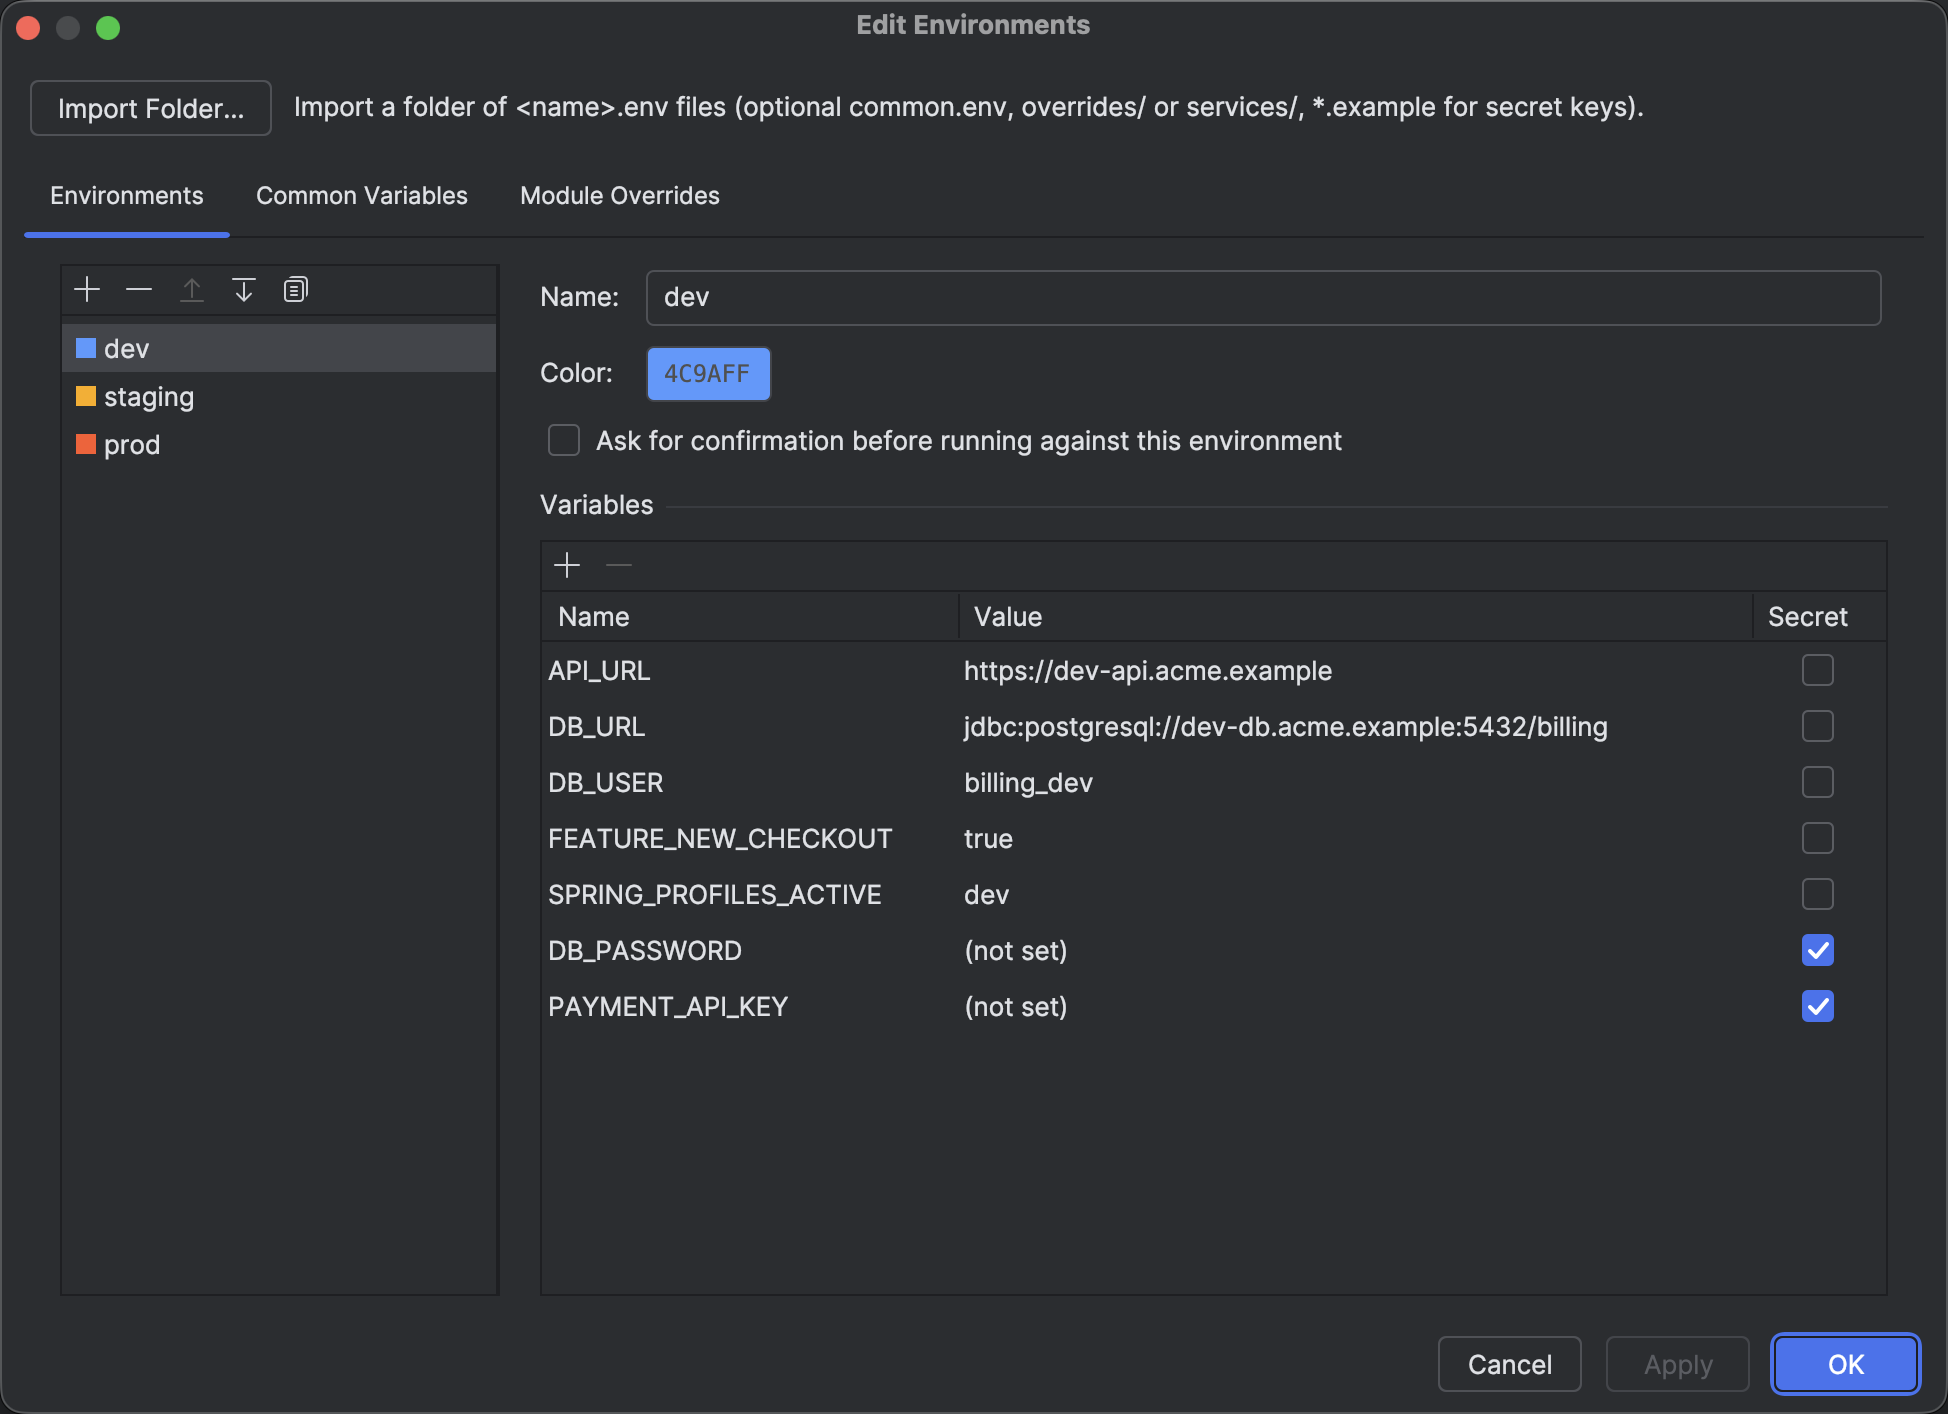
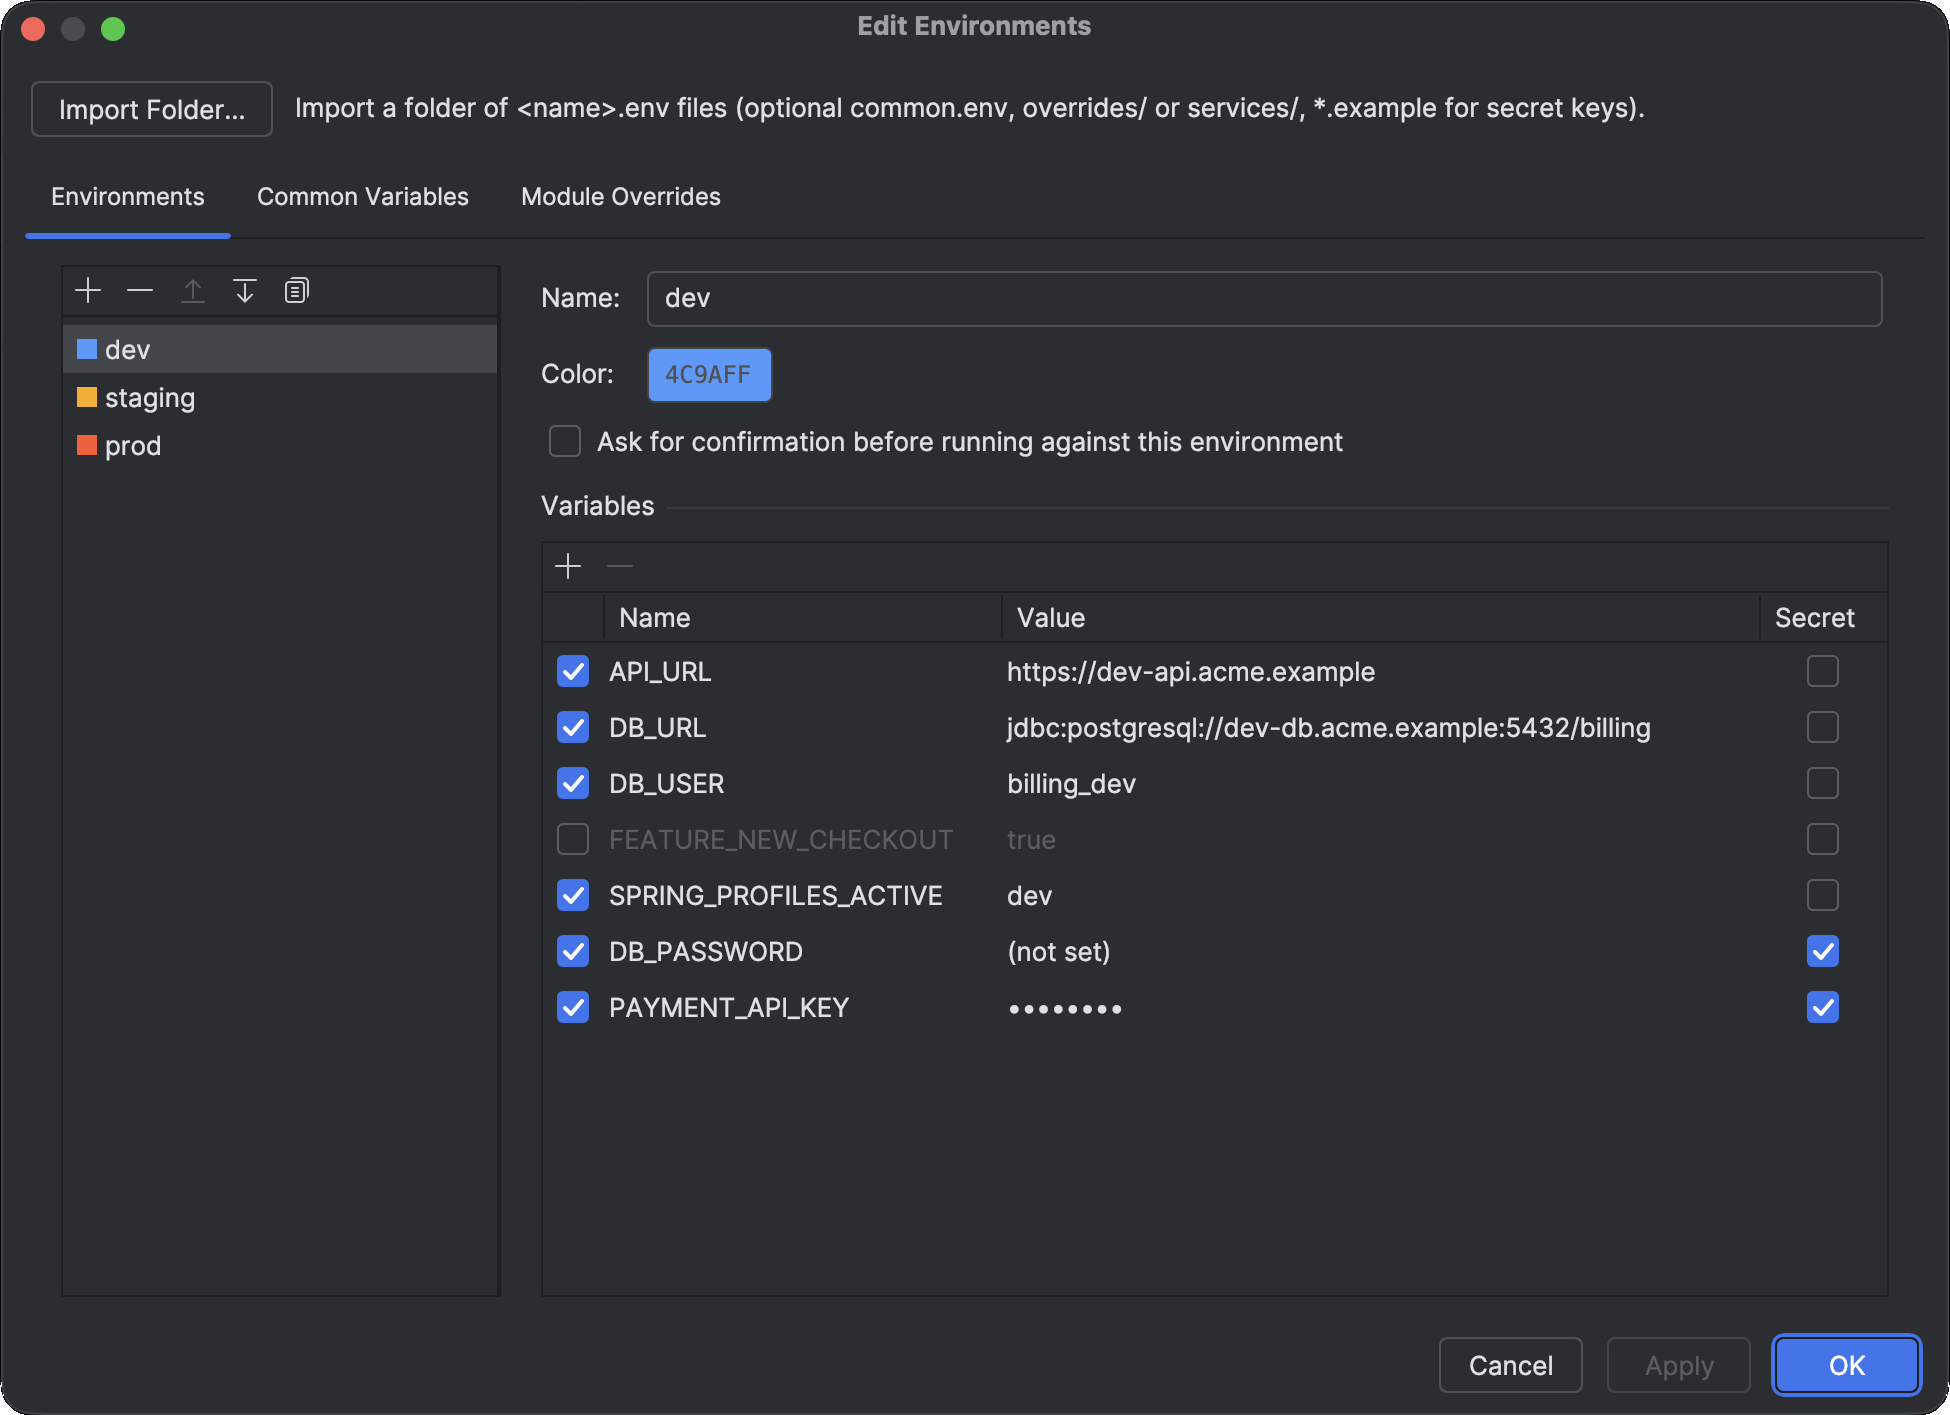
fix: grey out only unticked variable rows; release 1.2.1
* fix: grey out only unticked variable rows; refresh Edit Environments screenshot

* release: 1.2.1

diff --git a/src/main/kotlin/io/github/mnaami/environmentswitcher/ui/VariablesTablePanel.kt b/src/main/kotlin/io/github/mnaami/environmentswitcher/ui/VariablesTablePanel.kt
@@ -69,7 +69,11 @@ class VariablesTablePanel(
                 column: Int,
             ): Component {
                 val c = super.prepareRenderer(renderer, row, column)
-                if (column != COL_ENABLED && !rows[row].enabled && !isRowSelected(row)) c.foreground = UIUtil.getLabelDisabledForeground()
+                // Renderers are shared and DefaultTableCellRenderer keeps the last foreground set,
+                // so every unselected row must set it, not only the disabled ones.
+                if (column != COL_ENABLED && !isRowSelected(row)) {
+                    c.foreground = if (rows[row].enabled) foreground else UIUtil.getLabelDisabledForeground()
+                }
                 return c
             }
         }

diff --git a/CHANGELOG.md b/CHANGELOG.md
@@ -2,6 +2,11 @@
 
 ## [Unreleased]
 
+## [1.2.1] - 2026-10-07
+### Fixed
+- Unticking one variable no longer greys out every row drawn after it in
+  the Edit Environments tables.
+
 ## [1.2.0] - 2026-10-07
 ### Added
 - Enabled checkbox on every variable (environments, common, overrides):
